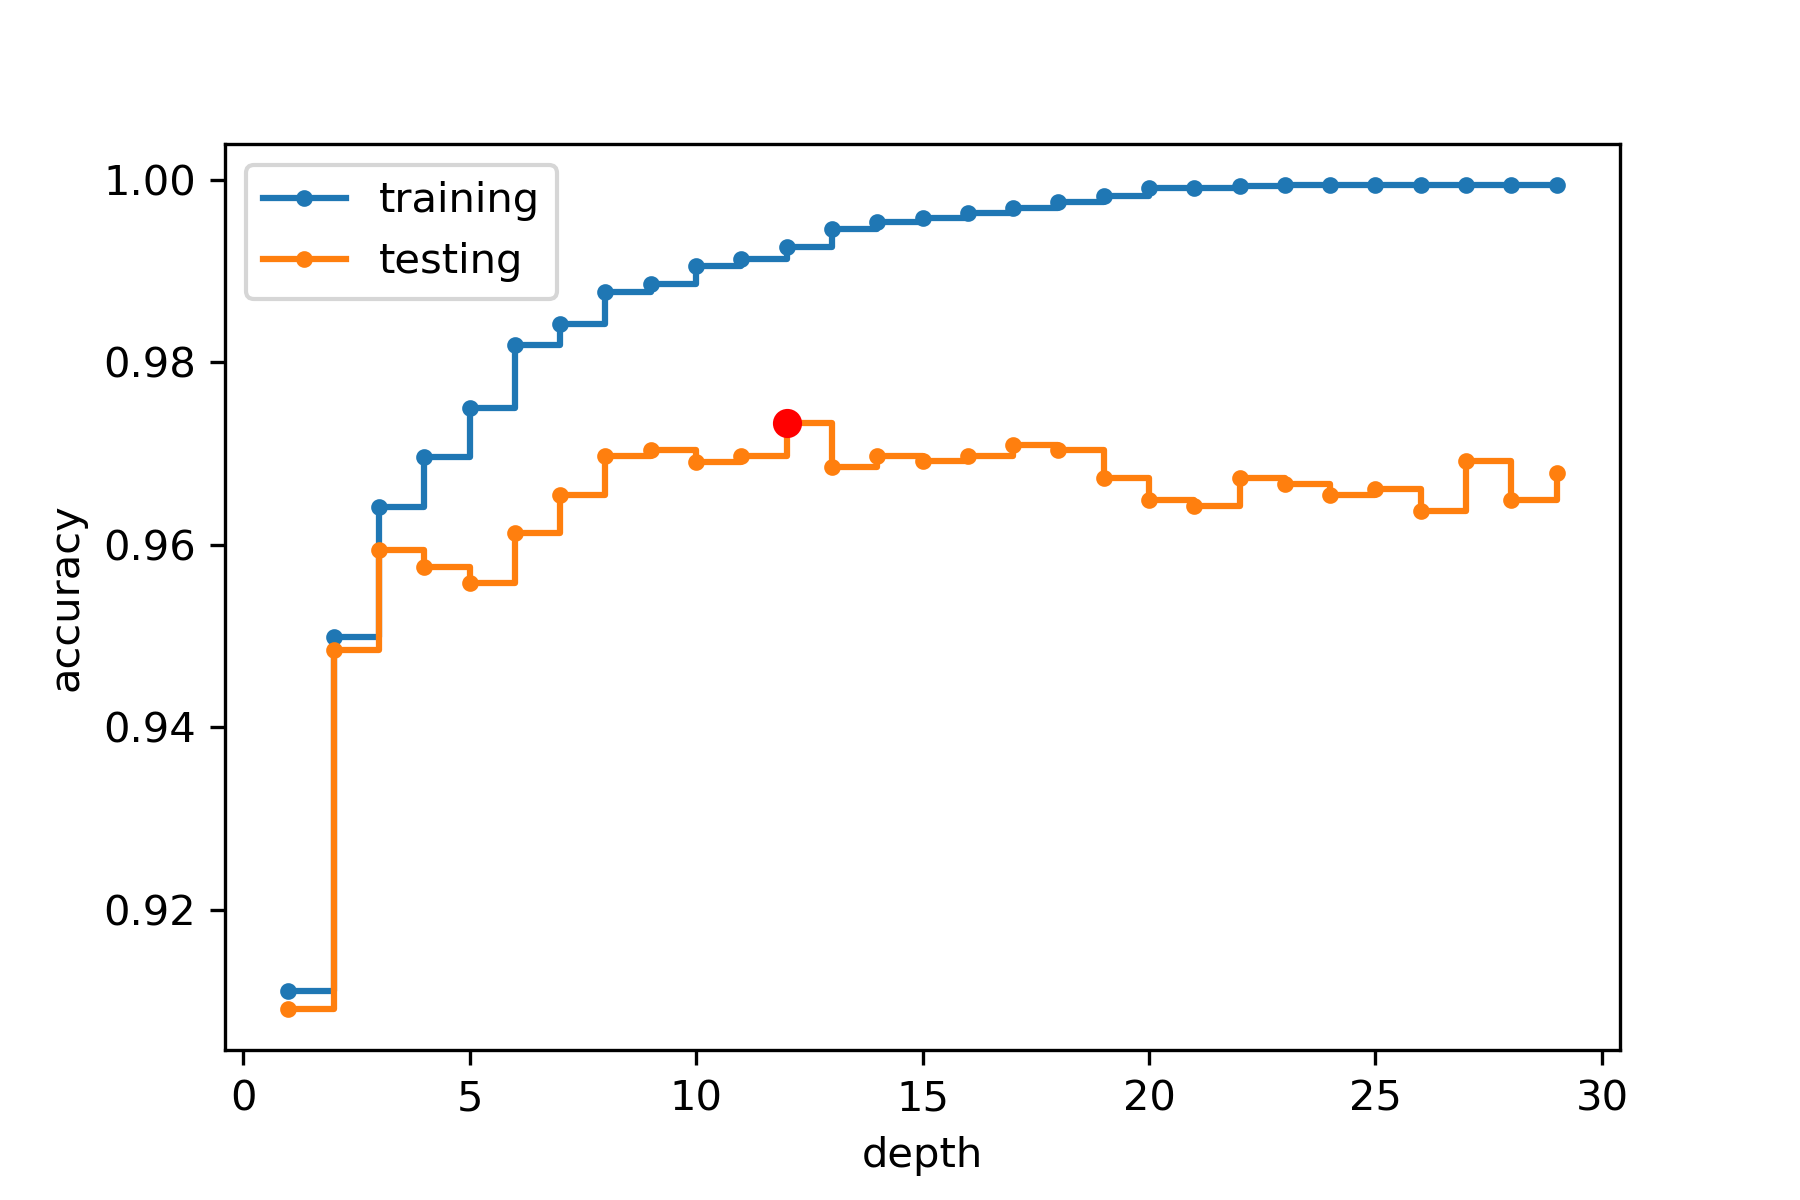
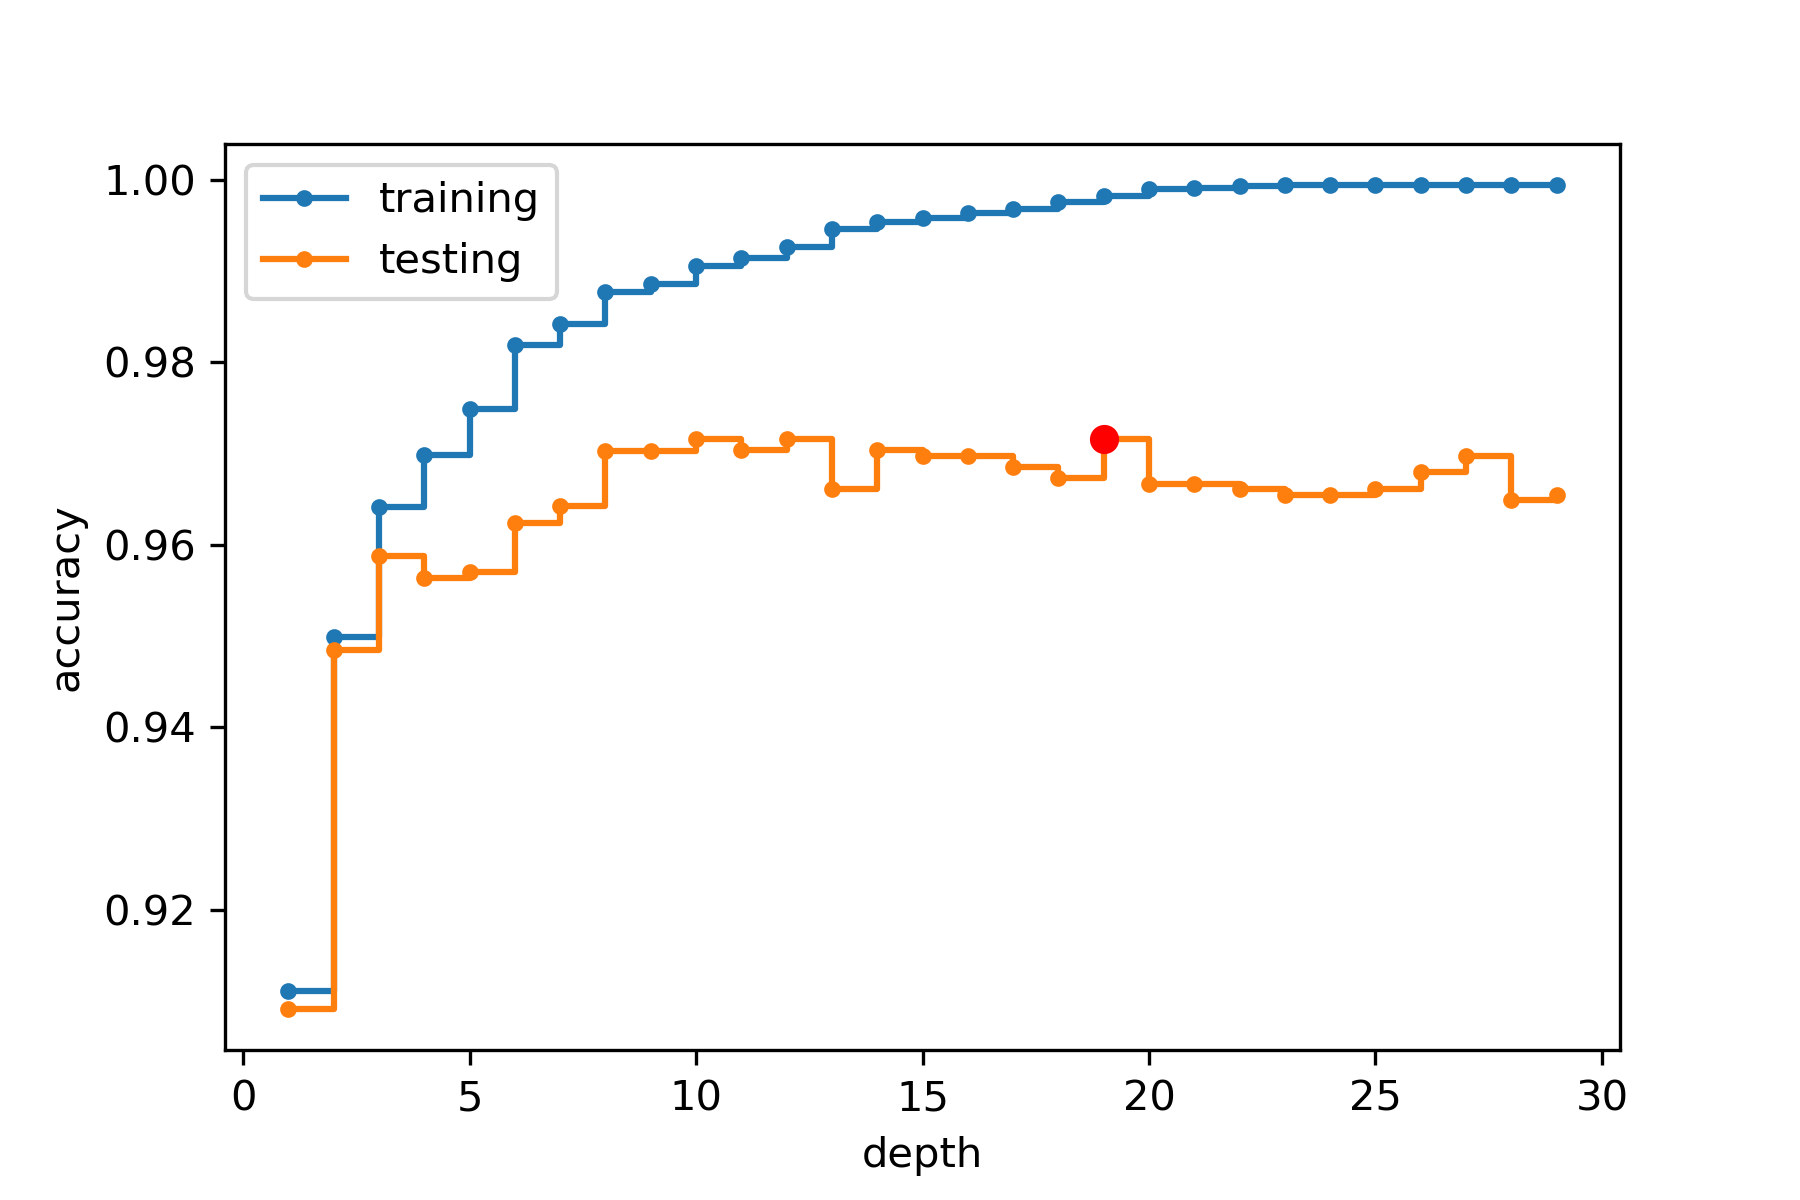
finish code

diff --git a/KNN.py b/KNN.py
@@ -23,13 +23,13 @@ X_train, X_test, y_train, y_test = train_test_split(df_data, df_label, test_size
 
 ## Step 3 build and search best parameters for KNN
 k_range = range(1,31)
-weights_options=['uniform','distance']
+weights_options=['distance']
 param = {'n_neighbors':k_range, 'weights':weights_options}
 cv = StratifiedShuffleSplit(n_splits=10, random_state=15)
 
 # estimator = knn, param_grid = param, n_jobs = -1 to instruct scikit learn to use all available processors. 
 grid = GridSearchCV(KNeighborsClassifier(), param,cv=cv,verbose = False, n_jobs=-1)
-grid.fit(X_train,y_train)
+grid.fit(X_train, y_train)
 
 knn = grid.best_estimator_
 y_pred = knn.predict(X_test)

diff --git a/README.md b/README.md
@@ -1,3 +1,9 @@
-# ml_assignment
+# Advertisment images classification
 
-This is the course assignment of machine learning at Cranfield university.
+This is a course assignment of machine learning at Cranfield university. The main task is to classify ad and nonad website images.
+
+The code work with the platform of Python 3.7 and necessary libraries, including sklearn (verision 0.22), numpy, matplotlib and graphviz.
+
+Three machine learning algorithms are adopted, including decision tree, k-nearest neigbhour and support vector machine.
+
+The SVM owns best accuracy while its efficiency is not good. For more details, please read the report.
